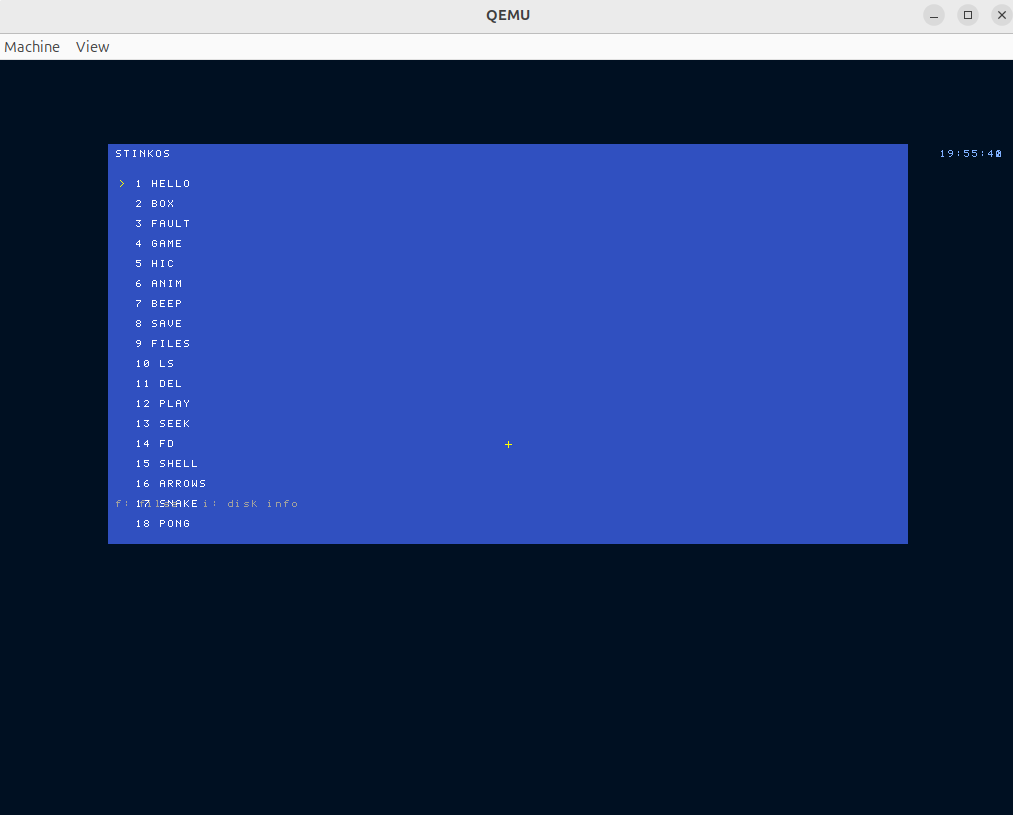
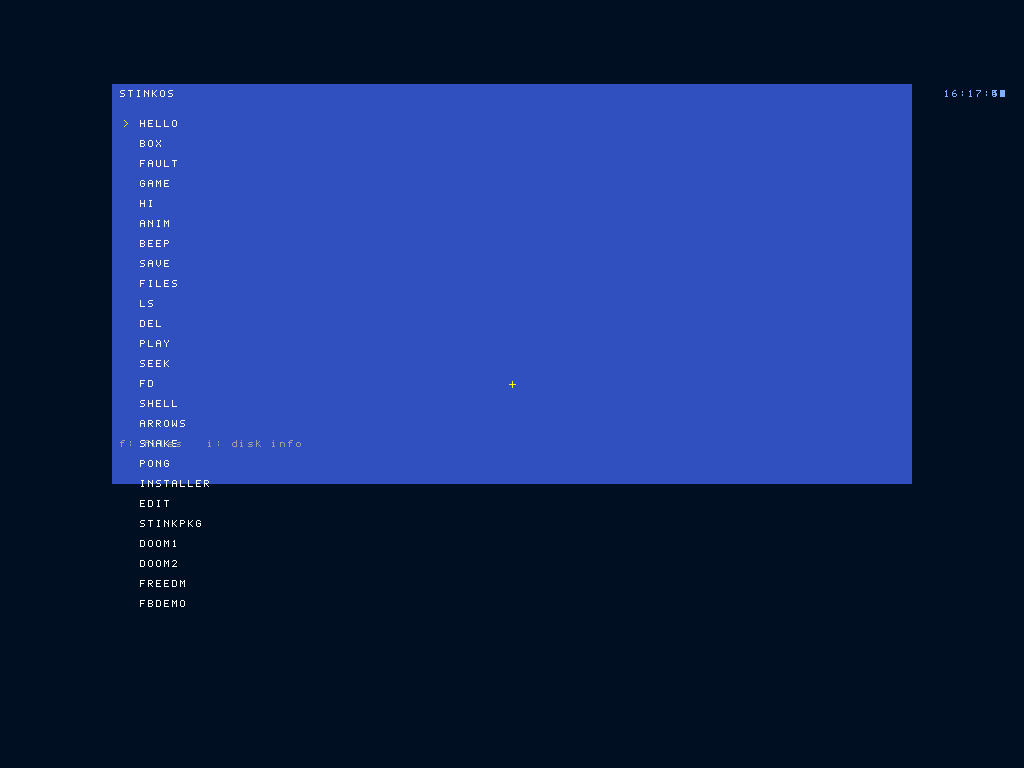
refactor: consolidate screenshots under images/, drop stale shots

Changed region(s): [[0.0, 0.0, 1.0, 0.6875], [0.153, 0.7188, 0.1836, 0.8125]]

diff --git a/pages/index.html b/pages/index.html
@@ -27,7 +27,7 @@
 		<a class="cta" href="#getstarted">Get started &rarr;</a>
 		<a class="cta secondary" href="https://github.com/Jovinull/StinkOS">View on GitHub</a>
 		<div class="hero-shot">
-			<img src="img/doom_e1m1.png" alt="Freedoom1 running as a userland app on StinkOS, picking up a shotgun in Phase 1 Map01" loading="eager">
+			<img src="images/doom_e1m1.png" alt="Freedoom1 running as a userland app on StinkOS, picking up a shotgun in Phase 1 Map01" loading="eager">
 			<p class="caption">Freedoom1 running as a userland app -- ring 3, no GRUB, no Multiboot loader. Bootblock -> ELF kernel -> doomgeneric.</p>
 		</div>
 	</div>
@@ -142,19 +142,19 @@
 		<h2>Screenshots</h2>
 		<div class="shots">
 			<figure>
-				<img src="img/menu.png" alt="StinkOS boot menu listing 25 userland apps including Doom variants" loading="lazy">
+				<img src="images/menu.png" alt="StinkOS boot menu listing 25 userland apps including Doom variants" loading="lazy">
 				<figcaption>The boot menu lists every userland app on the disk -- 25 apps in this image, picked by ENTER on the highlighted entry.</figcaption>
 			</figure>
 			<figure>
-				<img src="img/doom_walking.png" alt="Freedoom1 mid-combat with pistol drawn, status bar showing 93% health" loading="lazy">
+				<img src="images/doom_walking.png" alt="Freedoom1 mid-combat with pistol drawn, status bar showing 93% health" loading="lazy">
 				<figcaption>Freedoom1 mid-combat. Status bar (health, ammo, armor, weapons grid) is the original Doom HUD running through doomgeneric.</figcaption>
 			</figure>
 			<figure>
-				<img src="img/shell_status.png" alt="StinkOS shell running help, mem, ps, and netinfo commands back to back" loading="lazy">
+				<img src="images/shell_status.png" alt="StinkOS shell running help, mem, ps, and netinfo commands back to back" loading="lazy">
 				<figcaption>The shell chained through <code>help</code> / <code>mem</code> / <code>ps</code> / <code>netinfo</code>. DHCP bound, gateway and DNS picked up from QEMU's user-mode SLIRP, free-page count exposed via <code>SYS_MEMINFO</code>.</figcaption>
 			</figure>
 			<figure>
-				<img src="img/fbdemo.png" alt="FBDEMO app writing colour bars directly to the linear framebuffer" loading="lazy">
+				<img src="images/fbdemo.png" alt="FBDEMO app writing colour bars directly to the linear framebuffer" loading="lazy">
 				<figcaption><code>SYS_MAP_FB</code> in action -- the framebuffer is mapped read-write into the user address space, so each pixel write is one store instruction, zero syscalls.</figcaption>
 			</figure>
 		</div>

diff --git a/README.md b/README.md
@@ -44,18 +44,18 @@ Yeah, the name is a joke. The code isn't.
 ## Screenshots
 
 <p align="center">
-  <img src="pages/img/doom_e1m1.png" width="80%" alt="Freedoom1 running as a userland app on StinkOS, picking up a shotgun in Phase 1 Map01">
+  <img src="images/doom_e1m1.png" width="80%" alt="Freedoom1 running as a userland app on StinkOS, picking up a shotgun in Phase 1 Map01">
   <br>
   <sub>Freedoom1 running as a userland app — ring 3, no GRUB, no Multiboot loader. Bootblock → ELF kernel → doomgeneric.</sub>
 </p>
 
 <p align="center">
-  <img src="pages/img/menu.png" width="48%" alt="StinkOS boot menu listing every userland app on the disk">
-  <img src="pages/img/doom_walking.png" width="48%" alt="Freedoom1 mid-combat with pistol drawn">
+  <img src="images/menu.png" width="48%" alt="StinkOS boot menu listing every userland app on the disk">
+  <img src="images/doom_walking.png" width="48%" alt="Freedoom1 mid-combat with pistol drawn">
 </p>
 <p align="center">
-  <img src="pages/img/shell_status.png" width="48%" alt="StinkOS shell running help, mem, ps and netinfo back to back">
-  <img src="pages/img/fbdemo.png" width="48%" alt="FBDEMO writing colour bars directly to the linear framebuffer via SYS_MAP_FB">
+  <img src="images/shell_status.png" width="48%" alt="StinkOS shell running help, mem, ps and netinfo back to back">
+  <img src="images/fbdemo.png" width="48%" alt="FBDEMO writing colour bars directly to the linear framebuffer via SYS_MAP_FB">
 </p>
 
 <sub>